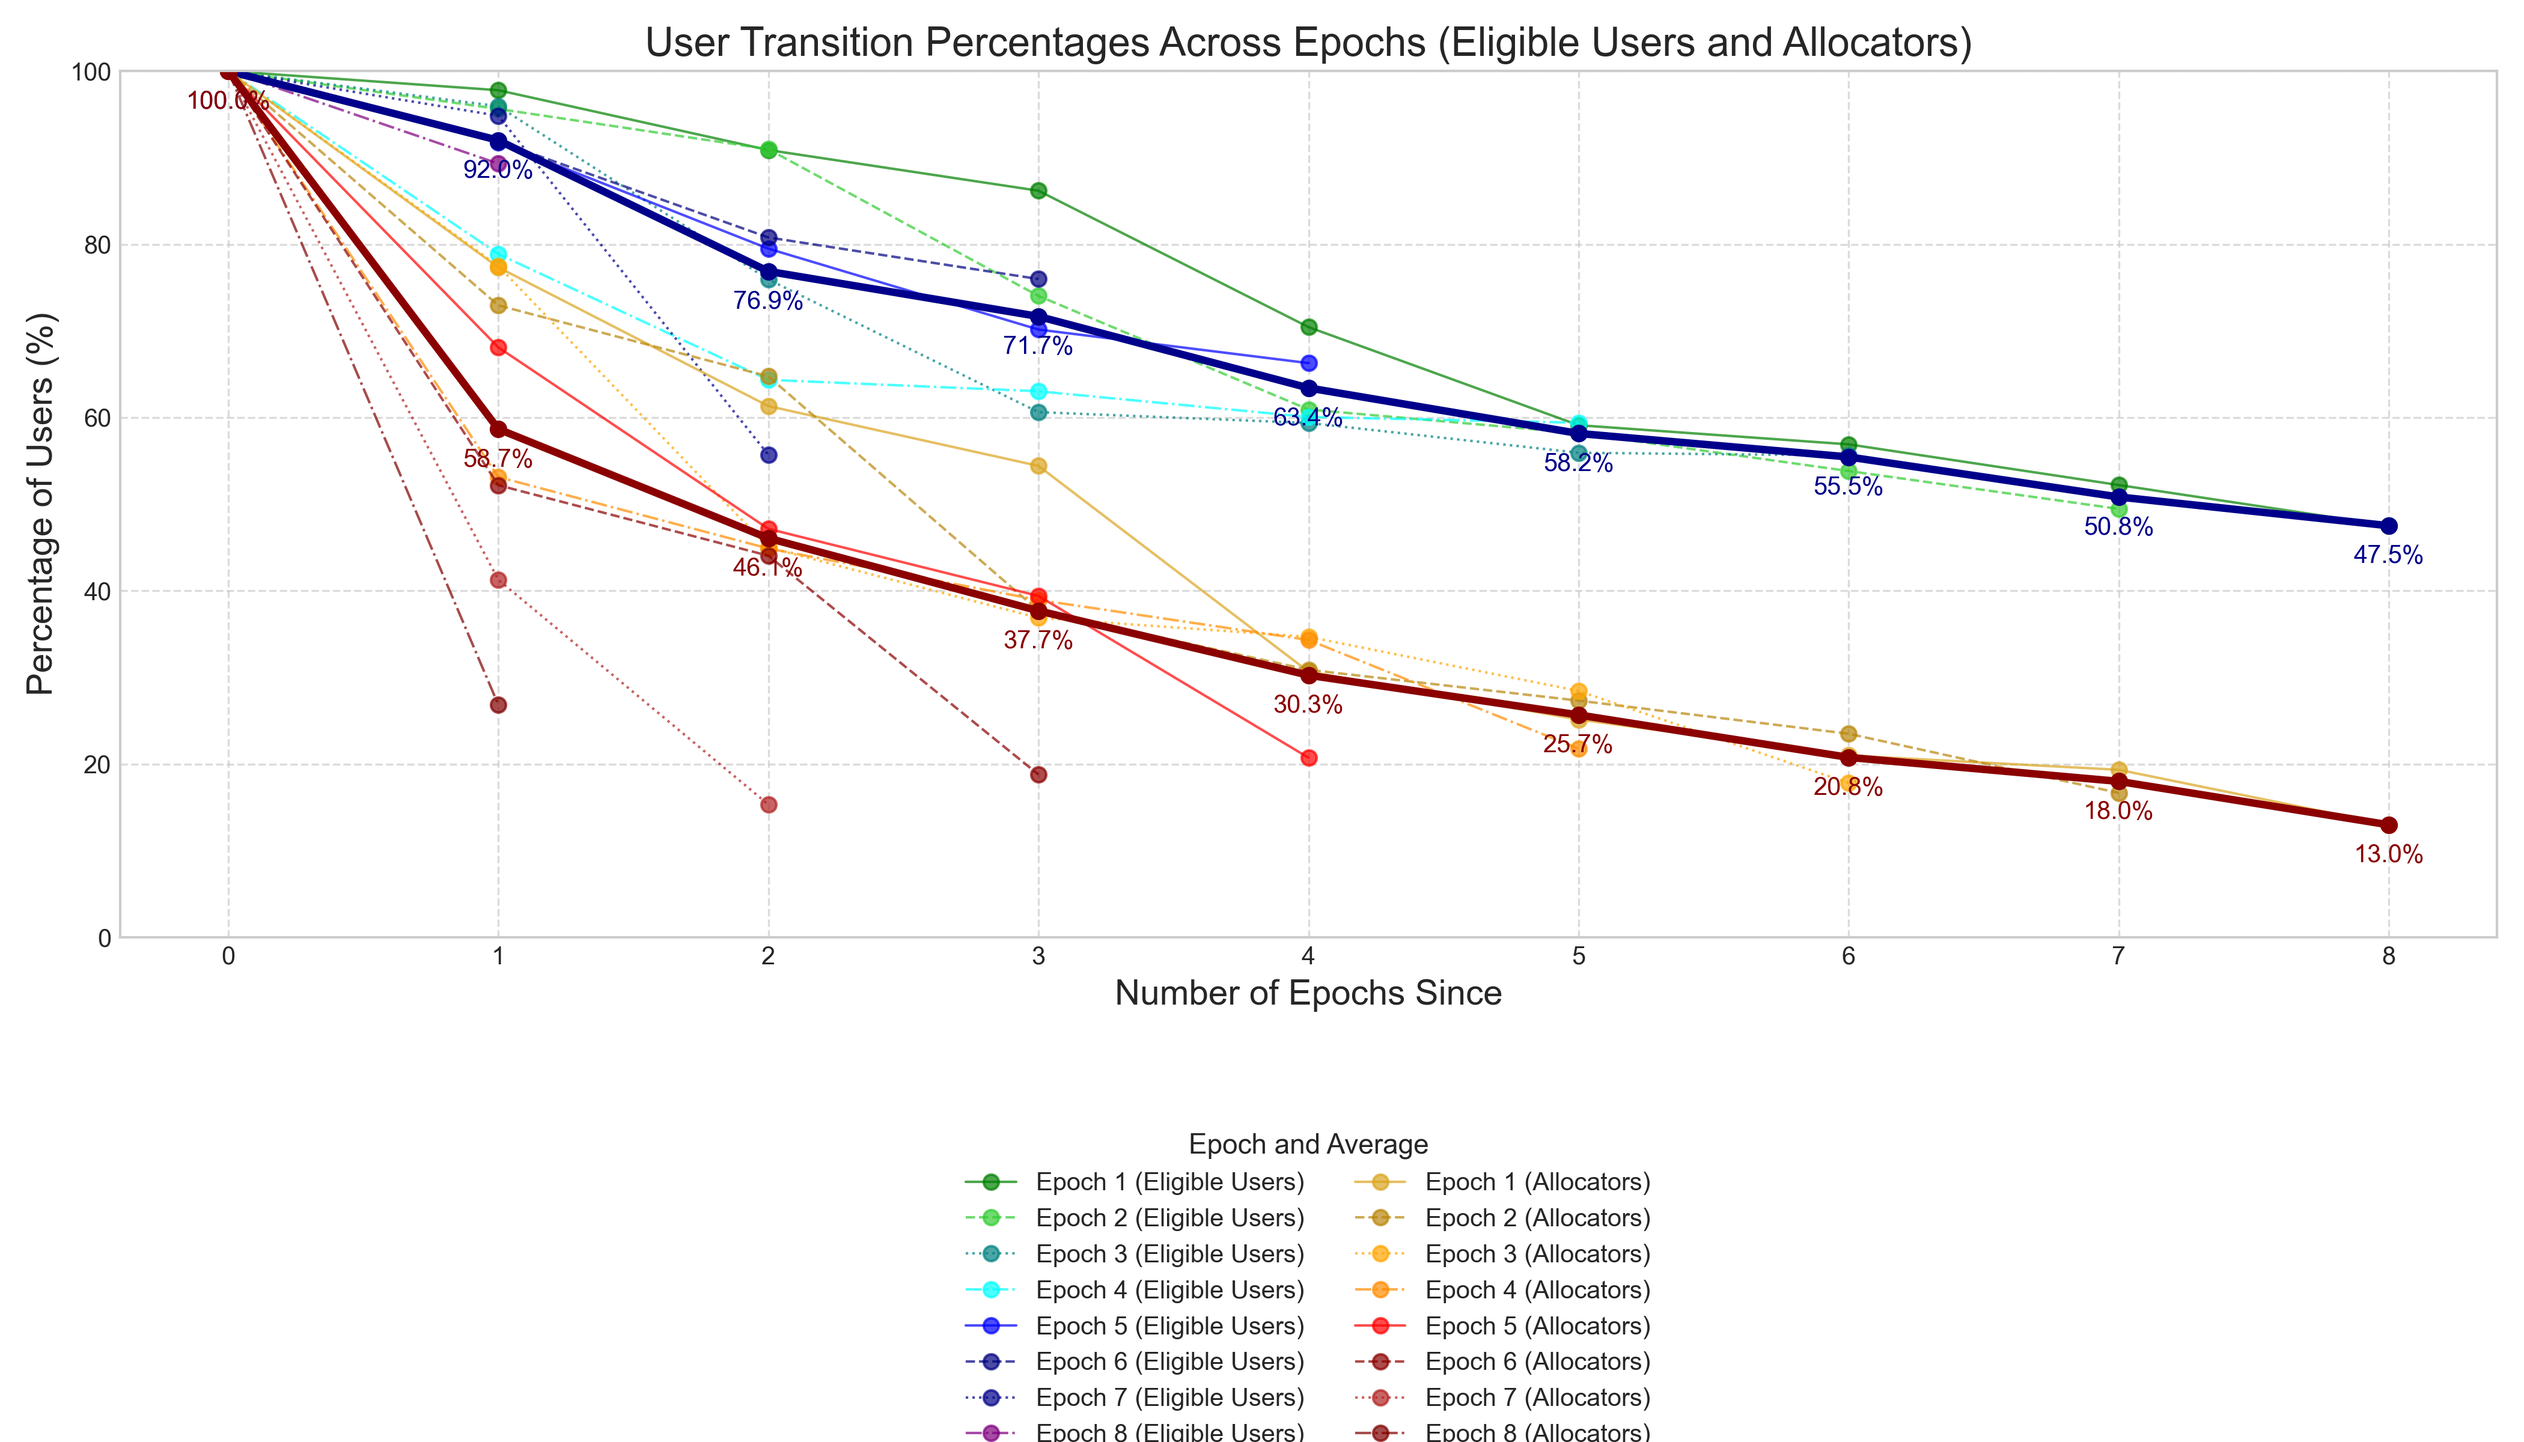
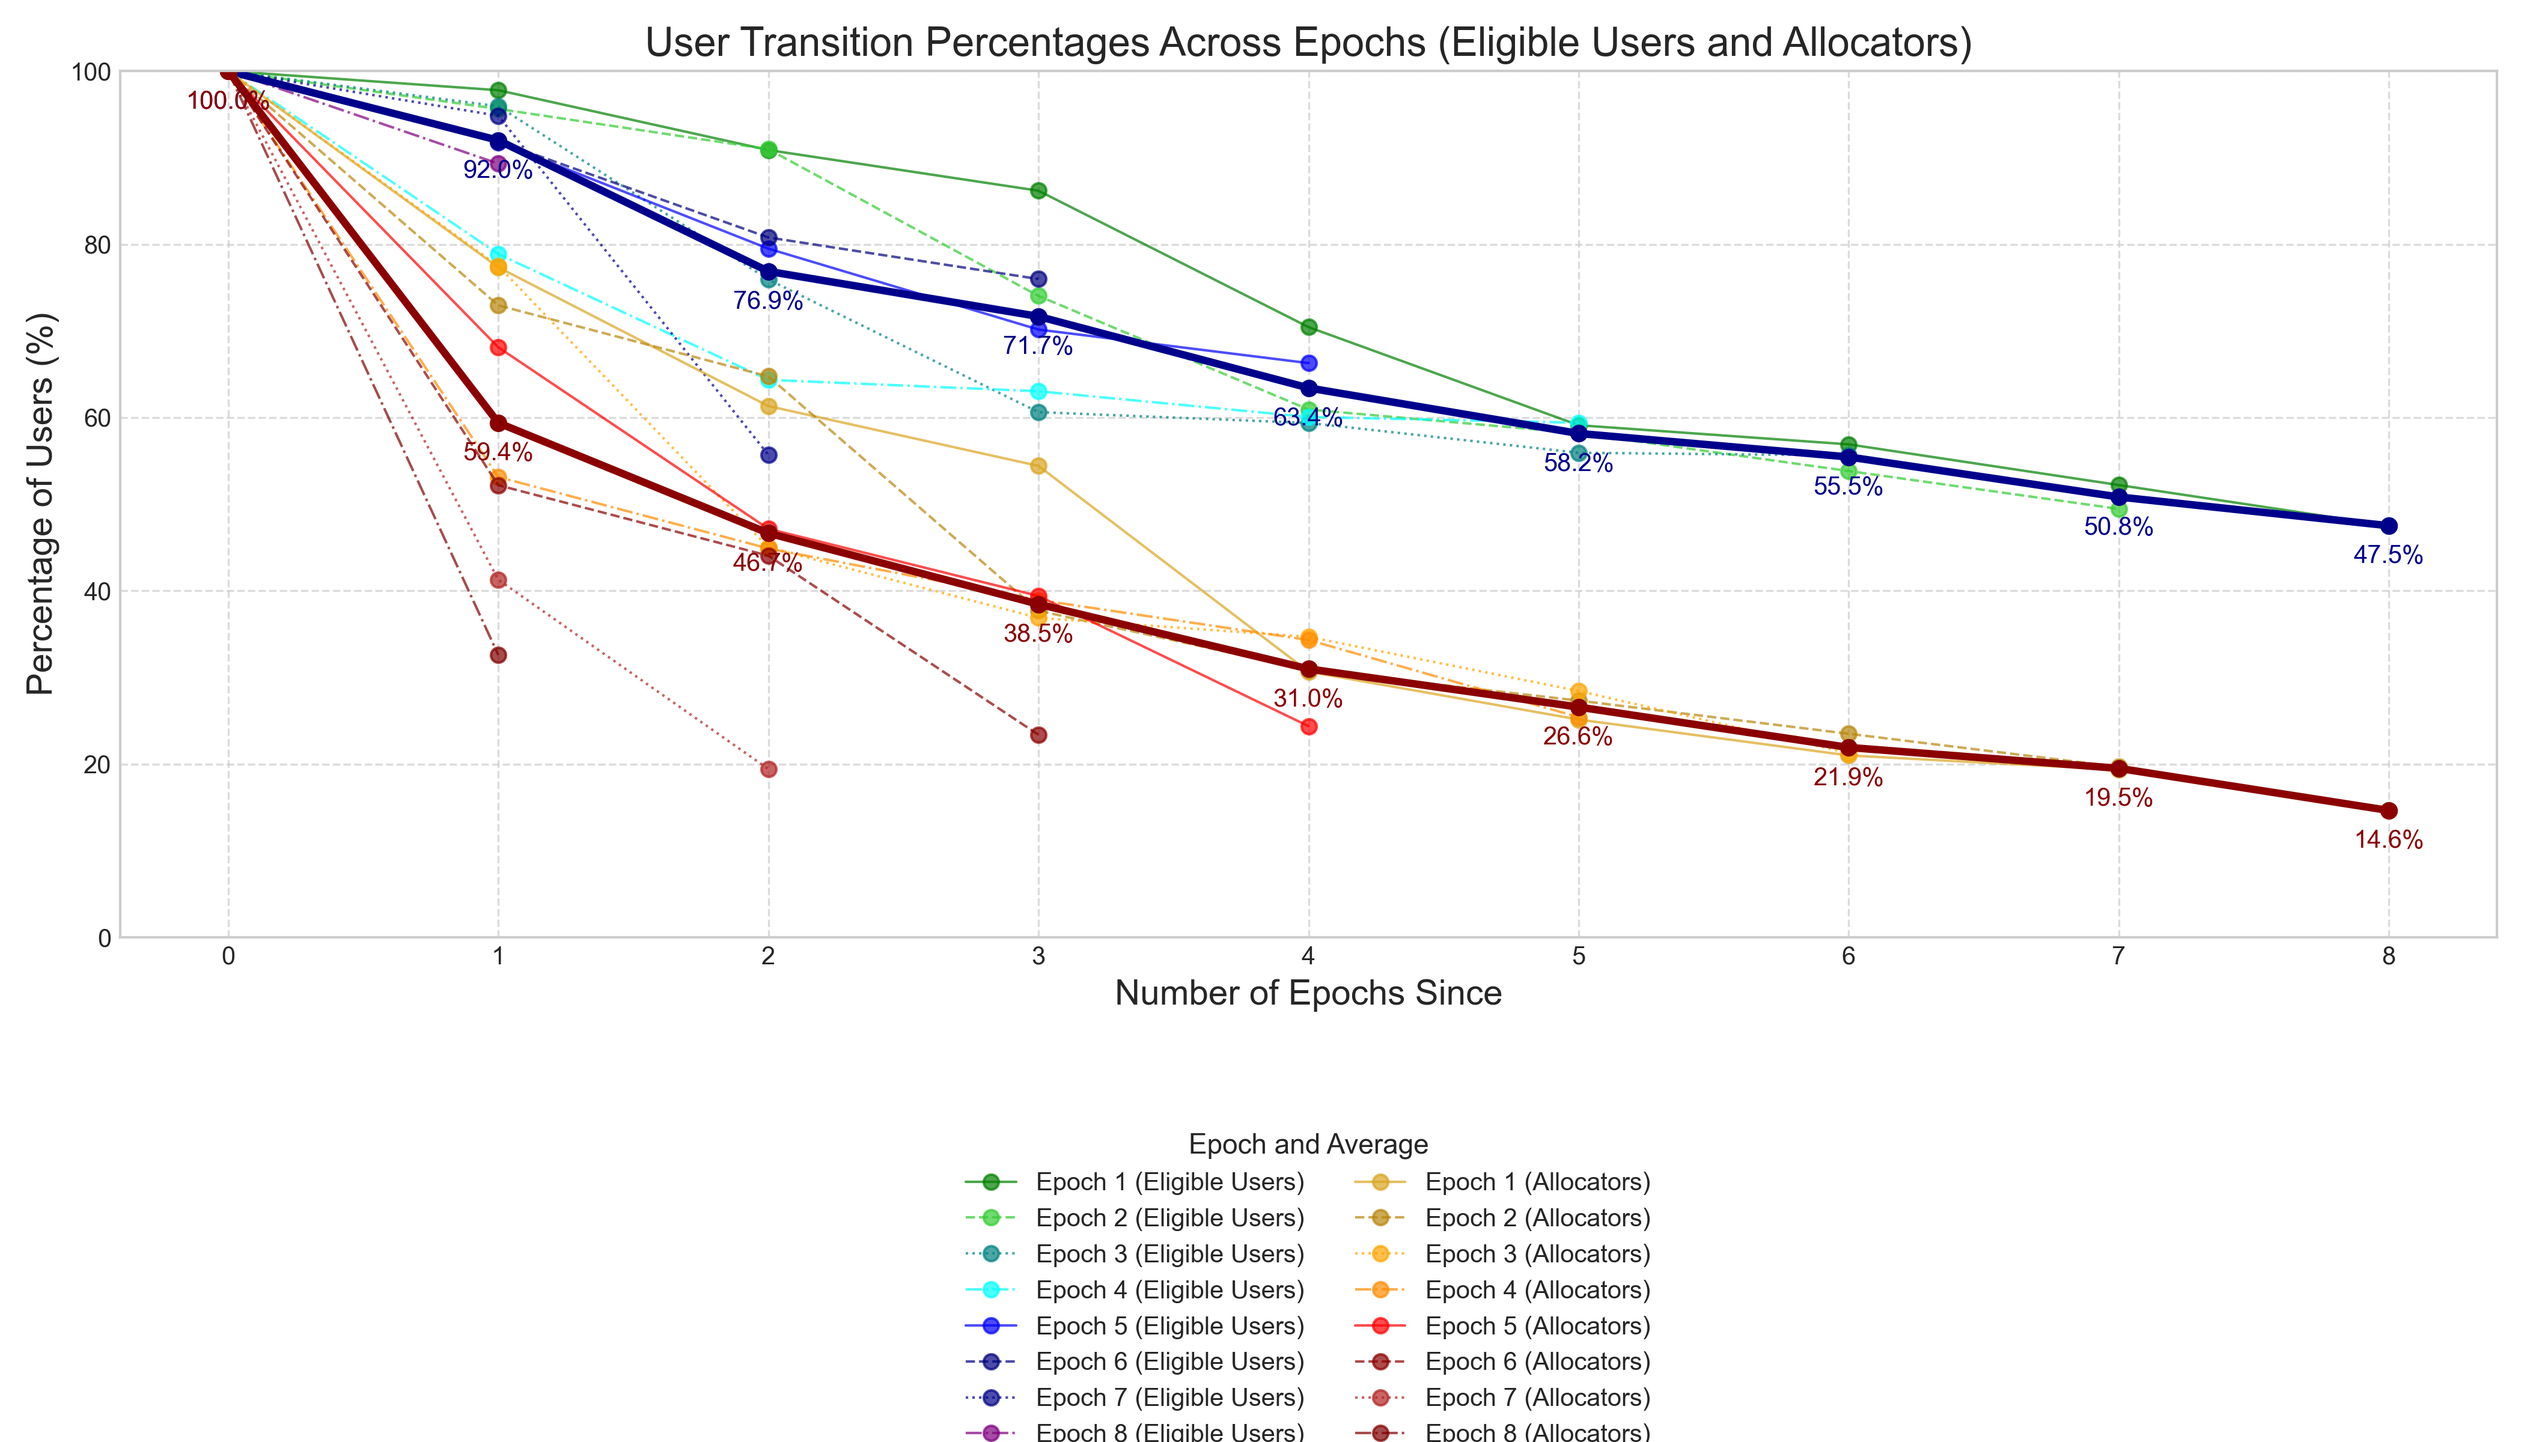
update

diff --git a/_includes/e9/table_amounts.html b/_includes/e9/table_amounts.html
@@ -86,11 +86,11 @@
     <tr>
       <td style="width: 1%; text-align: center; padding: 8px; word-wrap: break-word; white-space: normal;">9</td>
       <td style="width: 1%; text-align: center; padding: 8px; word-wrap: break-word; white-space: normal;">173.609</td>
-      <td style="width: 1%; text-align: center; padding: 8px; word-wrap: break-word; white-space: normal;">130.691</td>
-      <td style="width: 1%; text-align: center; padding: 8px; word-wrap: break-word; white-space: normal;">2.744</td>
-      <td style="width: 1%; text-align: center; padding: 8px; word-wrap: break-word; white-space: normal;">24.7</td>
-      <td style="width: 1%; text-align: center; padding: 8px; word-wrap: break-word; white-space: normal;">75.3</td>
-      <td style="width: 1%; text-align: center; padding: 8px; word-wrap: break-word; white-space: normal;">2.1</td>
+      <td style="width: 1%; text-align: center; padding: 8px; word-wrap: break-word; white-space: normal;">147.198</td>
+      <td style="width: 1%; text-align: center; padding: 8px; word-wrap: break-word; white-space: normal;">3.266</td>
+      <td style="width: 1%; text-align: center; padding: 8px; word-wrap: break-word; white-space: normal;">15.2</td>
+      <td style="width: 1%; text-align: center; padding: 8px; word-wrap: break-word; white-space: normal;">84.8</td>
+      <td style="width: 1%; text-align: center; padding: 8px; word-wrap: break-word; white-space: normal;">2.2</td>
     </tr>
   </tbody>
 </table>

diff --git a/_includes/e9/table_cohorts.html b/_includes/e9/table_cohorts.html
@@ -76,11 +76,11 @@
     </tr>
     <tr>
       <td style="width: 1%; text-align: center; padding: 8px; word-wrap: break-word; white-space: normal;">9</td>
-      <td style="width: 1%; text-align: center; padding: 8px; word-wrap: break-word; white-space: normal;">27</td>
-      <td style="width: 1%; text-align: center; padding: 8px; word-wrap: break-word; white-space: normal;">6</td>
-      <td style="width: 1%; text-align: center; padding: 8px; word-wrap: break-word; white-space: normal;">4</td>
+      <td style="width: 1%; text-align: center; padding: 8px; word-wrap: break-word; white-space: normal;">36</td>
       <td style="width: 1%; text-align: center; padding: 8px; word-wrap: break-word; white-space: normal;">8</td>
-      <td style="width: 1%; text-align: center; padding: 8px; word-wrap: break-word; white-space: normal;">11</td>
+      <td style="width: 1%; text-align: center; padding: 8px; word-wrap: break-word; white-space: normal;">4</td>
+      <td style="width: 1%; text-align: center; padding: 8px; word-wrap: break-word; white-space: normal;">14</td>
+      <td style="width: 1%; text-align: center; padding: 8px; word-wrap: break-word; white-space: normal;">13</td>
     </tr>
   </tbody>
 </table>

diff --git a/_includes/e9/table_users.html b/_includes/e9/table_users.html
@@ -68,9 +68,9 @@
     <tr>
       <td style="width: 1%; text-align: center; padding: 8px; word-wrap: break-word; white-space: normal;">9</td>
       <td style="width: 1%; text-align: center; padding: 8px; word-wrap: break-word; white-space: normal;">1034</td>
-      <td style="width: 1%; text-align: center; padding: 8px; word-wrap: break-word; white-space: normal;">118</td>
-      <td style="width: 1%; text-align: center; padding: 8px; word-wrap: break-word; white-space: normal;">108</td>
-      <td style="width: 1%; text-align: center; padding: 8px; word-wrap: break-word; white-space: normal;">11.4</td>
+      <td style="width: 1%; text-align: center; padding: 8px; word-wrap: break-word; white-space: normal;">147</td>
+      <td style="width: 1%; text-align: center; padding: 8px; word-wrap: break-word; white-space: normal;">131</td>
+      <td style="width: 1%; text-align: center; padding: 8px; word-wrap: break-word; white-space: normal;">14.2</td>
     </tr>
   </tbody>
 </table>

diff --git a/_includes/e9/current_datetime.html b/_includes/e9/current_datetime.html
@@ -7,6 +7,6 @@
     <title>Current Date and Time</title>
 </head>
 <body>
-    <p>Last update: 2025-10-13 18:13:33</p>
+    <p>Last update: 2025-10-15 21:48:26</p>
 </body>
 </html>
